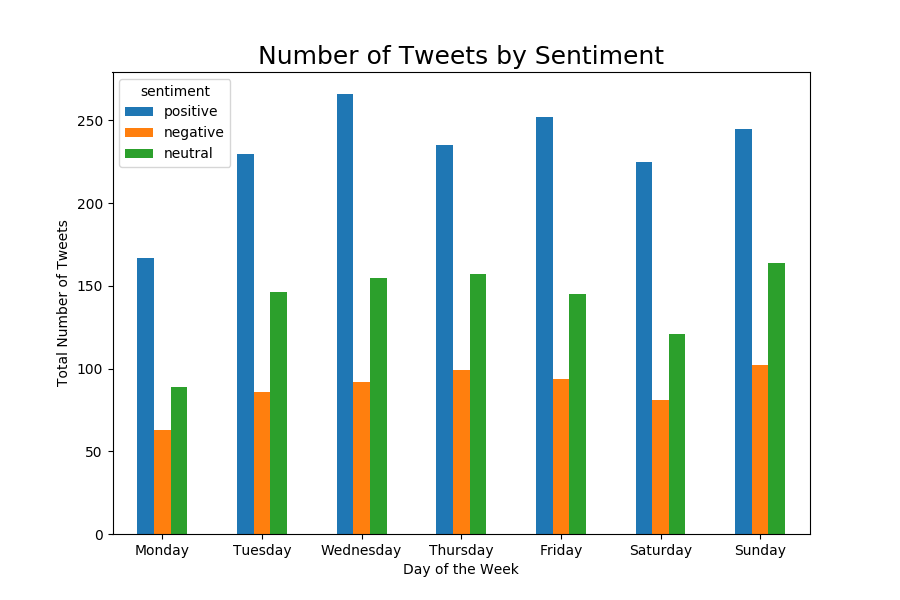
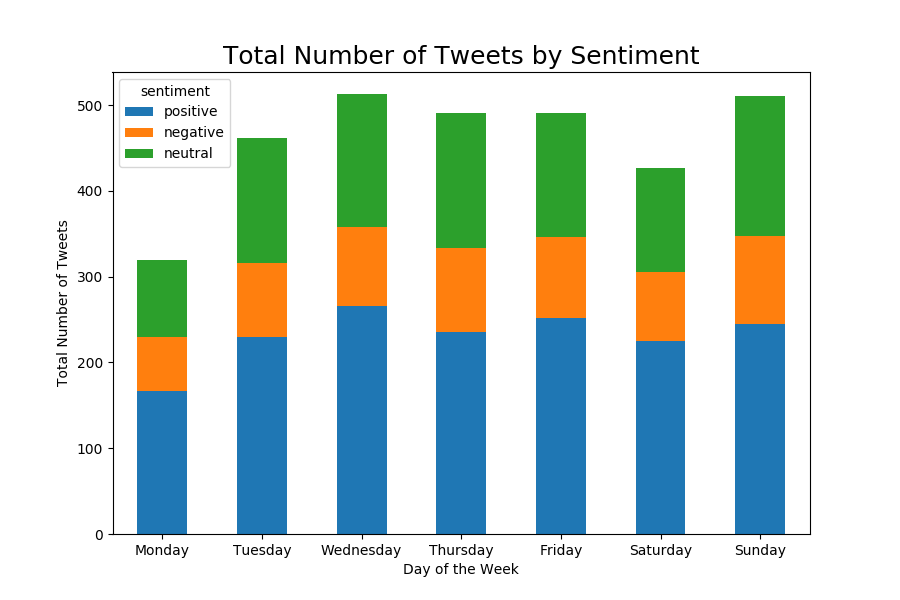
done for now I think???
not sure what else I can find with only the 3 csv files that I have :/

diff --git a/ShawTimelineAnalysis.py b/ShawTimelineAnalysis.py
@@ -22,6 +22,7 @@ auth = tweepy.OAuthHandler(consumer_key, consumer_secret)
 auth.set_access_token(access_token, access_token_secret)
 api = tweepy.API(auth,wait_on_rate_limit=True)
 
+
 ################################################################################################
 # HELPER STUFF
 ################################################################################################
@@ -82,7 +83,7 @@ def plot_sentiment_numbers(source,df):
 
         plt.axis("equal")
         patches, texts, autotexts = plt.pie(vals, labels=sentiments, autopct=make_autopct(vals))
-        plt.title('Number of Tweets by Sentiment', fontsize=18)
+        plt.title('Percentage of Tweets by Sentiment', fontsize=18)
 
         for t in texts:
             t.set_size(16)
@@ -99,11 +100,11 @@ def plot_sentiment_per_day(source,df):
     if not df.empty:
         grouped = get_sentiment_by_day(df)
 
-        fig = grouped.plot(kind='bar',stacked=False,rot='horizontal',figsize=(9,6), title='Number of Tweets by Sentiment')
+        fig = grouped.plot(kind='bar',stacked=True,rot='horizontal',figsize=(9,6), title='Number of Tweets by Sentiment')
         fig.set_xlabel("Day of the Week")
         fig.set_ylabel("Total Number of Tweets")
 
-        plt.title('Number of Tweets by Sentiment', fontsize=18)
+        plt.title('Total Number of Tweets by Sentiment', fontsize=18)
         plt.savefig('plots/' + source + '_sentiment_by_week')
 
         plt.tight_layout()
@@ -114,8 +115,6 @@ def plot_avg_per_day(source,df):
     if not df.empty:
         grouped = get_sentiment_by_day(df)
 
-        print(grouped)
-
         df.sort_values('tweet_date', inplace=True)
         monday1 = (df.tweet_date[0] - timedelta(days=df.tweet_date[0].weekday()))
         monday2 = (df.tweet_date[len(df.index) - 1] - timedelta(days=df.tweet_date[len(df.index) - 1].weekday()))
@@ -125,13 +124,11 @@ def plot_avg_per_day(source,df):
         for s in sentiments:
             grouped[s] = grouped.apply(lambda x: x[s] / total_weeks, axis=1)
 
-        print(grouped)
-
         fig = grouped.plot(kind='bar',stacked=False,rot='horizontal',figsize=(9,6), title='Number of Tweets by Sentiment')
         fig.set_xlabel("Day of the Week")
         fig.set_ylabel("Average Number of Tweets")
 
-        plt.title('Number of Tweets by Sentiment', fontsize=18)
+        plt.title('Average Number of Tweets by Sentiment', fontsize=18)
         plt.savefig('plots/' + source + '_avg_by_week')
 
         plt.tight_layout()
@@ -167,9 +164,9 @@ def total_tweets_per_day():
         tweets =  pd.read_csv(user + '_tweets.csv', names=['tweet_date', 'text'],encoding='utf-8')
         plot_sentiment_per_day(user,tweets)
 
-    # tweets =  pd.read_csv('shawtags.csv', names=['tweet_date', 'text'],encoding='utf-8')
-    # plot_sentiment_per_day("hastag_shawInternet",tweets)
-#
-# sentiment_analysis()
+    tweets =  pd.read_csv('shawtags.csv', names=['tweet_date', 'text'],encoding='utf-8')
+    plot_sentiment_per_day("hastag_shawInternet",tweets)
+
+sentiment_analysis()
 avg_tweets_per_day()
-# total_tweets_per_day()
+total_tweets_per_day()
